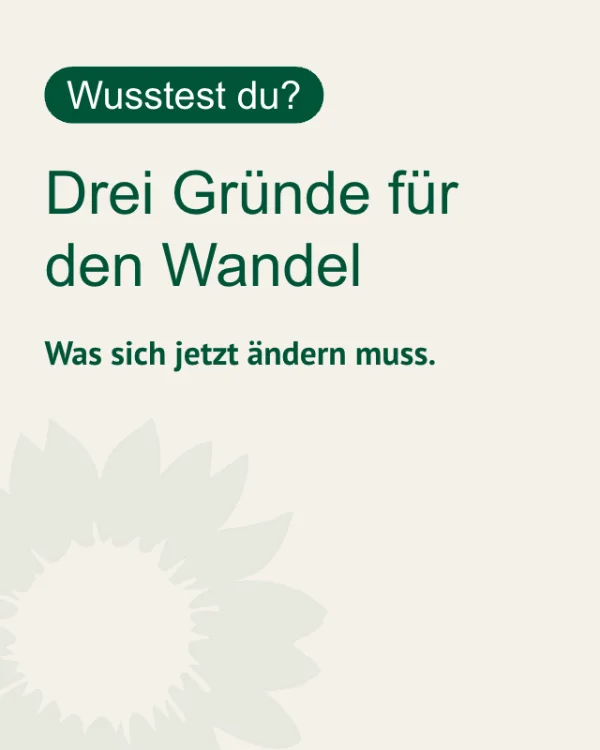
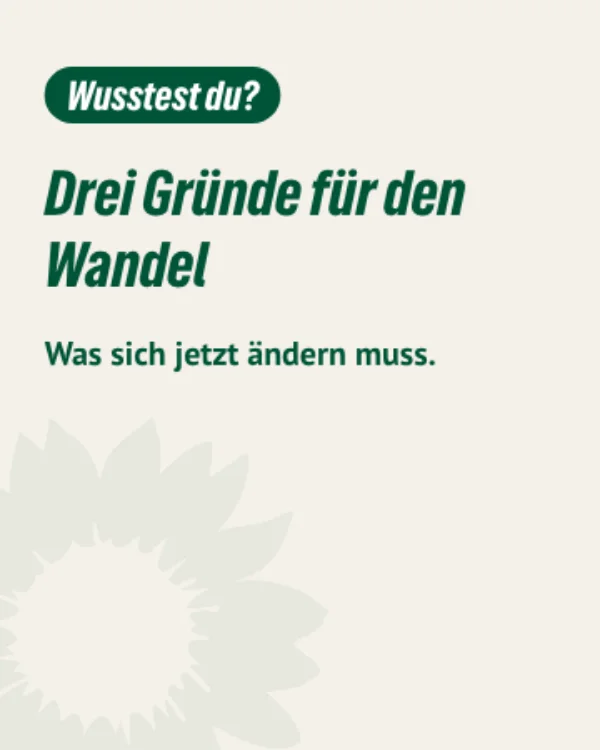
fix(canvas): schriftpfade in typography.css auf die dateien richten
Die @font-face-Regeln fuer GrueneTypeNeue, GrueneType, PT Sans und Raleway
zeigten auf `../fonts/` — von src/styles/ aus also auf src/fonts/, wo nur
die oesterreichischen Schnitte lagen. Genau 14 von 24 url()-Verweisen
waren tot, alle deutschen, keiner oesterreichischen. Der Kopfkommentar
behauptete das Gegenteil.

Nichts warnte darueber: ein fehlendes @font-face wirft nicht, der Browser
nimmt still die Ersatzschrift. Aufgefallen ist es an einem ausgelieferten
Bild — slider-preview.webp stand in Helvetica, weil der Erzeuger genau
diese Datei laedt. Neu gerendert, jetzt in GrueneTypeNeue. freeform und
profilbild tragen keinen Text und bleiben unangetastet.

Ursache war, dass das Paket zwei Schriftverzeichnisse hatte. Sie sind zu
einem zusammengelegt, alle Pfade zeigen auf ../../fonts/.

Dabei kam ein zweiter Haken hoch: tailwindcss inlined `@import` ohne die
url()s umzuschreiben, das CSS-Bundle erbt also die quell-relativen Pfade
— lag aber eine Ebene hoeher als die Quelle. Derselbe Pfad konnte damit
entweder in der Quelle oder im Bundle stimmen, nie in beiden. Die Ausgabe
liegt jetzt in dist/styles/, auf derselben Tiefe.

Dazu Guards, weil diese Fehlerklasse sich nicht von selbst zeigt: jedes
url() in BEIDEN Schriftdeklarationen muss auf eine vorhandene Datei
zeigen, beide muessen dieselben Familien abdecken, und die Bundle-Tiefe
muss zur Quelltiefe passen. Gegen den Stand vor dieser Aenderung faellt
der erste Guard mit 14 nicht aufloesbaren Pfaden.

Changed region(s): [[0.06, 0.2147, 0.78, 0.3987], [0.09, 0.0613, 0.54, 0.184], [0.09, 0.46, 0.72, 0.4907]]

diff --git a/packages/canvas-editor/src/styles/typography.css b/packages/canvas-editor/src/styles/typography.css
@@ -4,13 +4,22 @@
  * Loads fonts from packages/canvas-editor/fonts/ for the DOM component WebView.
  * The web app loads these via apps/web typography.css; this file serves the same
  * purpose for the isolated WebView environment.
+ *
+ * Die Pfade sind relativ zu DIESER Datei, also `../../fonts/` — von
+ * src/styles/ aus. `../fonts/` zeigte auf src/fonts/: dort lagen nur die
+ * österreichischen Schnitte, die deutschen waren von hier aus unerreichbar,
+ * und der Kommentar oben behauptete das Gegenteil. Beide Verzeichnisse sind
+ * jetzt zu einem zusammengelegt. Der Guard in
+ * src/styles/__tests__/typography-fonts.vitest.ts hält jedes url() gegen die
+ * Platte — ein fehlender Schnitt fällt nicht auf, er sieht nur nach einer
+ * anderen Schrift aus.
  */
 
 /* PT Sans — body text */
 @font-face {
     font-family: 'PT Sans';
-    src: url('../fonts/PTSans-Regular.woff2') format('woff2'),
-         url('../fonts/PTSans-Regular.woff') format('woff');
+    src: url('../../fonts/PTSans-Regular.woff2') format('woff2'),
+         url('../../fonts/PTSans-Regular.woff') format('woff');
     font-weight: normal;
     font-style: normal;
     font-display: swap;
@@ -18,8 +27,8 @@
 
 @font-face {
     font-family: 'PT Sans';
-    src: url('../fonts/PTSans-Bold.woff2') format('woff2'),
-         url('../fonts/PTSans-Bold.woff') format('woff');
+    src: url('../../fonts/PTSans-Bold.woff2') format('woff2'),
+         url('../../fonts/PTSans-Bold.woff') format('woff');
     font-weight: bold;
     font-style: normal;
     font-display: swap;
@@ -27,8 +36,8 @@
 
 @font-face {
     font-family: 'PT Sans';
-    src: url('../fonts/PTSans-Italic.woff2') format('woff2'),
-         url('../fonts/PTSans-Italic.woff') format('woff');
+    src: url('../../fonts/PTSans-Italic.woff2') format('woff2'),
+         url('../../fonts/PTSans-Italic.woff') format('woff');
     font-weight: normal;
     font-style: italic;
     font-display: swap;
@@ -37,8 +46,8 @@
 /* GrueneType — legacy brand font */
 @font-face {
     font-family: 'GrueneType';
-    src: url('../fonts/GrueneType.woff2') format('woff2'),
-         url('../fonts/GrueneType.woff') format('woff');
+    src: url('../../fonts/GrueneType.woff2') format('woff2'),
+         url('../../fonts/GrueneType.woff') format('woff');
     font-weight: normal;
     font-style: normal;
     font-display: swap;
@@ -47,8 +56,8 @@
 /* GrueneTypeNeue — primary canvas text font */
 @font-face {
     font-family: 'GrueneTypeNeue';
-    src: url('../fonts/GrueneTypeNeue-Regular.woff2') format('woff2'),
-         url('../fonts/GrueneTypeNeue-Regular.woff') format('woff');
+    src: url('../../fonts/GrueneTypeNeue-Regular.woff2') format('woff2'),
+         url('../../fonts/GrueneTypeNeue-Regular.woff') format('woff');
     font-weight: normal;
     font-style: normal;
     font-display: swap;
@@ -57,8 +66,8 @@
 /* Österreich (de-AT) sharepic fonts — Gotham Narrow + Vollkorn */
 @font-face {
     font-family: 'GothamNarrow-Ultra';
-    src: url('../fonts/GothamNarrow-Ultra.woff2') format('woff2'),
-         url('../fonts/GothamNarrow-Ultra.woff') format('woff');
+    src: url('../../fonts/GothamNarrow-Ultra.woff2') format('woff2'),
+         url('../../fonts/GothamNarrow-Ultra.woff') format('woff');
     font-weight: normal;
     font-style: normal;
     font-display: swap;
@@ -66,8 +75,8 @@
 
 @font-face {
     font-family: 'GothamNarrow-Book';
-    src: url('../fonts/GothamNarrow-Book.woff2') format('woff2'),
-         url('../fonts/GothamNarrow-Book.woff') format('woff');
+    src: url('../../fonts/GothamNarrow-Book.woff2') format('woff2'),
+         url('../../fonts/GothamNarrow-Book.woff') format('woff');
     font-weight: normal;
     font-style: normal;
     font-display: swap;
@@ -75,8 +84,8 @@
 
 @font-face {
     font-family: 'GothamNarrow-Bold';
-    src: url('../fonts/GothamNarrow-Bold.woff2') format('woff2'),
-         url('../fonts/GothamNarrow-Bold.woff') format('woff');
+    src: url('../../fonts/GothamNarrow-Bold.woff2') format('woff2'),
+         url('../../fonts/GothamNarrow-Bold.woff') format('woff');
     font-weight: normal;
     font-style: normal;
     font-display: swap;
@@ -84,8 +93,8 @@
 
 @font-face {
     font-family: 'Vollkorn';
-    src: url('../fonts/Vollkorn-BoldItalic.woff2') format('woff2'),
-         url('../fonts/Vollkorn-BoldItalic.woff') format('woff');
+    src: url('../../fonts/Vollkorn-BoldItalic.woff2') format('woff2'),
+         url('../../fonts/Vollkorn-BoldItalic.woff') format('woff');
     font-weight: normal;
     font-style: italic;
     font-display: swap;
@@ -93,8 +102,8 @@
 
 @font-face {
     font-family: 'Vollkorn';
-    src: url('../fonts/Vollkorn-BlackItalic.woff2') format('woff2'),
-         url('../fonts/Vollkorn-BlackItalic.woff') format('woff');
+    src: url('../../fonts/Vollkorn-BlackItalic.woff2') format('woff2'),
+         url('../../fonts/Vollkorn-BlackItalic.woff') format('woff');
     font-weight: bold;
     font-style: italic;
     font-display: swap;
@@ -103,7 +112,7 @@
 /* Raleway — UI/heading font */
 @font-face {
     font-family: 'Raleway';
-    src: url('../fonts/Raleway-Regular.woff') format('woff');
+    src: url('../../fonts/Raleway-Regular.woff') format('woff');
     font-weight: 400;
     font-style: normal;
     font-display: swap;
@@ -111,7 +120,7 @@
 
 @font-face {
     font-family: 'Raleway';
-    src: url('../fonts/Raleway-Medium.woff') format('woff');
+    src: url('../../fonts/Raleway-Medium.woff') format('woff');
     font-weight: 500;
     font-style: normal;
     font-display: swap;
@@ -119,7 +128,7 @@
 
 @font-face {
     font-family: 'Raleway';
-    src: url('../fonts/Raleway-SemiBold.woff') format('woff');
+    src: url('../../fonts/Raleway-SemiBold.woff') format('woff');
     font-weight: 600;
     font-style: normal;
     font-display: swap;
@@ -127,7 +136,7 @@
 
 @font-face {
     font-family: 'Raleway';
-    src: url('../fonts/Raleway-Bold.woff') format('woff');
+    src: url('../../fonts/Raleway-Bold.woff') format('woff');
     font-weight: 700;
     font-style: normal;
     font-display: swap;

diff --git a/packages/canvas-editor/src/styles/__tests__/typography-fonts.vitest.ts b/packages/canvas-editor/src/styles/__tests__/typography-fonts.vitest.ts
@@ -1,0 +1,74 @@
+import { existsSync, readFileSync } from 'node:fs';
+import path from 'node:path';
+import { fileURLToPath } from 'node:url';
+
+import { describe, it, expect } from 'vitest';
+
+/**
+ * Ein @font-face, dessen Datei fehlt, wirft nichts — der Browser nimmt still
+ * die Ersatzschrift. In canvas-editor/src/styles/typography.css zeigten die
+ * Regeln fuer GrueneTypeNeue, GrueneType, PT Sans und Raleway auf `../fonts/`,
+ * von src/styles/ aus also auf src/fonts/, wo nur die oesterreichischen
+ * Schnitte lagen. Aufgefallen ist es erst an einem ausgelieferten Bild:
+ * slider-preview.webp stand in Helvetica.
+ *
+ * Beide Schriftdeklarationen werden geprueft — die der Web-App war in Ordnung,
+ * aber sie ist die Vorlage, aus der die andere kopiert wurde.
+ */
+const HIER = path.dirname(fileURLToPath(import.meta.url));
+
+const DATEIEN = [
+  path.resolve(HIER, '../typography.css'),
+  path.resolve(HIER, '../../../../../apps/web/src/assets/styles/common/typography.css'),
+];
+
+/** Jeder url()-Wert einer @font-face-Regel, in Reihenfolge des Auftretens. */
+function schriftpfade(css: string): string[] {
+  return [...css.matchAll(/url\(['"]([^'"]+)['"]\)/g)].map((m) => m[1]);
+}
+
+describe('Schriftpfade in den @font-face-Deklarationen', () => {
+  it.each(DATEIEN)('%s verweist nur auf vorhandene Dateien', (datei) => {
+    expect(existsSync(datei), `${datei} fehlt`).toBe(true);
+    const pfade = schriftpfade(readFileSync(datei, 'utf8'));
+
+    // Kein Treffer hiesse: der Ausdruck oben passt nicht mehr, und der Guard
+    // waere ab sofort blind.
+    expect(pfade.length).toBeGreaterThan(10);
+
+    const fehlend = pfade.filter((p) => !existsSync(path.resolve(path.dirname(datei), p)));
+    expect(fehlend, `nicht auflösbar: ${fehlend.join(', ')}`).toEqual([]);
+  });
+
+  it('das CSS-Bundle liegt so tief, dass dieselben Pfade dort auch gelten', () => {
+    // tailwindcss inlined `@import` ohne die url()s umzuschreiben, das Bundle
+    // erbt also die quell-relativen Pfade. Vorher stand die Ausgabe eine Ebene
+    // hoeher als die Quelle: derselbe Pfad war entweder in der Quelle oder im
+    // Bundle falsch, nie in beiden richtig. Geprueft wird ohne Build — nur die
+    // Tiefe, die package.json konfiguriert.
+    const paket = path.resolve(HIER, '../../..');
+    const pkg = JSON.parse(readFileSync(path.join(paket, 'package.json'), 'utf8')) as {
+      scripts: { 'build:css': string };
+    };
+    const ausgabe = /-o\s+(\S+)/.exec(pkg.scripts['build:css'])?.[1];
+    expect(ausgabe, 'Ausgabepfad in build:css nicht gefunden').toBeTruthy();
+
+    const quellTiefe = path.relative(paket, path.resolve(HIER, '..')).split(path.sep).length;
+    const bundleTiefe = path
+      .relative(paket, path.dirname(path.resolve(paket, ausgabe!)))
+      .split(path.sep).length;
+    expect(bundleTiefe).toBe(quellTiefe);
+  });
+
+  it('deckt in beiden Dateien dieselben Schriftfamilien ab', () => {
+    // Die zwei Deklarationen sind handverdrahtete Geschwister. Laeuft eine
+    // davon weg, rendert dieselbe Vorlage je nach Einstiegspunkt anders.
+    const familien = (datei: string) =>
+      [...readFileSync(datei, 'utf8').matchAll(/font-family:\s*'([^']+)'/g)]
+        .map((m) => m[1])
+        .filter((f, i, a) => a.indexOf(f) === i)
+        .sort();
+
+    expect(familien(DATEIEN[0])).toEqual(familien(DATEIEN[1]));
+  });
+});

diff --git a/packages/canvas-editor/src/styles/tailwind-input.css b/packages/canvas-editor/src/styles/tailwind-input.css
@@ -1,12 +1,19 @@
 /**
  * Canvas Editor — Tailwind v4 entry point
  *
- * Compiled by `@tailwindcss/cli` into dist/canvas-editor-bundle.css.
+ * Compiled by `@tailwindcss/cli` into dist/styles/canvas-editor-bundle.css.
  * This single bundle provides everything the DOM component needs:
  *   1. CSS variable definitions (variables.css)
  *   2. Tailwind preflight + all utility classes used by canvas-editor
  *   3. canvas-editor.css pseudo-element / :has() rules
  *   4. Theme token mappings (CSS vars → Tailwind utilities)
+ *
+ * Die Ausgabe liegt in dist/STYLES/, nicht direkt in dist/, und das ist keine
+ * Kosmetik: tailwindcss inlined `@import` ohne die url()-Pfade umzuschreiben.
+ * Das Bundle erbt also die Pfade von src/styles/ und muss dieselbe Tiefe unter
+ * dem Paketwurzelverzeichnis haben, sonst zeigen die @font-face-Regeln ins
+ * Leere. Wer den Ausgabepfad ändert, muss typography.css mitändern — der Guard
+ * in src/styles/__tests__/typography-fonts.vitest.ts prüft genau das.
  */
 
 @import "tailwindcss";
